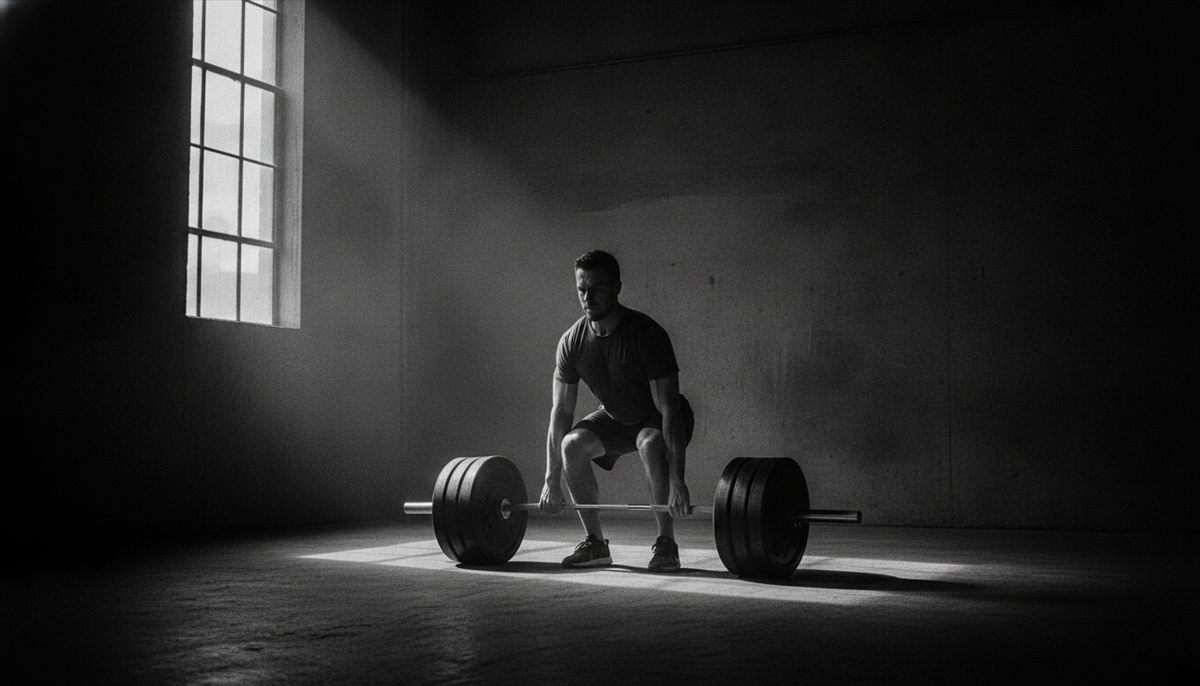
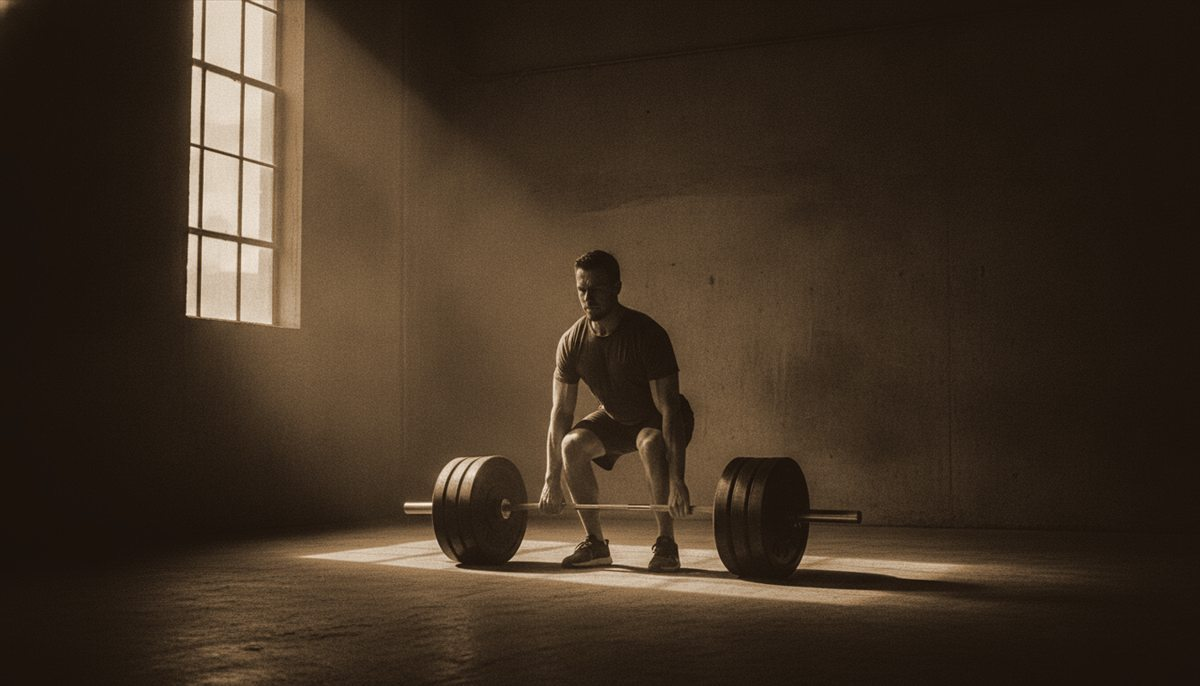
Tint the blog photos in the brand colours (ink brown to cream) instead of black and white
Keeps the untouched B&W masters in tools/photo-masters; tools/tint-photos.ps1 re-creates the tinted copies.

diff --git a/assets/css/style.css b/assets/css/style.css
@@ -84,7 +84,7 @@ html:not(.js) .split-w > span { transform: none; }
 /* ---------- hero ---------- */
 .hero { position: relative; display: flex; align-items: flex-end; min-height: min(78svh, 760px); padding: 120px var(--gutter) clamp(56px, 9vh, 96px); overflow: hidden; isolation: isolate; }
 .hero__bg { position: absolute; inset: 0; z-index: -2; }
-.hero__bg img { width: 100%; height: 100%; object-fit: cover; object-position: 55% 50%; filter: grayscale(1) brightness(.6); opacity: 0; transition: opacity 1.2s ease; }
+.hero__bg img { width: 100%; height: 100%; object-fit: cover; object-position: 55% 50%; filter: brightness(.6); opacity: 0; transition: opacity 1.2s ease; }
 .is-loaded .hero__bg img { opacity: 1; }
 .hero__shade { position: absolute; inset: 0; z-index: -1; background: linear-gradient(90deg, rgba(0,0,0,.85) 0%, rgba(0,0,0,.45) 55%, rgba(0,0,0,.2) 100%), linear-gradient(0deg, #000 0%, rgba(0,0,0,0) 45%); }
 .hero__content { width: 100%; max-width: var(--max); margin: 0 auto; }
@@ -115,7 +115,7 @@ html:not(.js) .line > span { transform: none; }
 .latest { padding-top: clamp(72px, 12vh, 120px); padding-bottom: clamp(56px, 9vh, 96px); }
 .feat { display: grid; grid-template-columns: minmax(0, 1.25fr) minmax(0, 1fr); gap: clamp(28px, 5vw, 80px); align-items: center; }
 .feat__media { position: relative; aspect-ratio: 4 / 3; overflow: hidden; background: var(--tile); }
-.feat__media img { width: 100%; height: 100%; object-fit: cover; filter: grayscale(1); transition: transform 1.2s var(--ease); }
+.feat__media img { width: 100%; height: 100%; object-fit: cover; transition: transform 1.2s var(--ease); }
 .feat:hover .feat__media img { transform: scale(1.03); }
 .feat__tag { position: absolute; left: 16px; top: 16px; font: 500 10.5px/1 var(--body); letter-spacing: .16em; text-transform: uppercase; color: #fff; text-shadow: 0 1px 8px rgba(0,0,0,.6); }
 .feat__meta { display: flex; flex-wrap: wrap; gap: 6px 18px; font: 500 11px/1.4 var(--body); letter-spacing: .14em; text-transform: uppercase; color: var(--dim); }
@@ -146,7 +146,7 @@ html:not(.js) .line > span { transform: none; }
 
 .card { position: relative; display: flex; flex-direction: column; }
 .card__cover { position: relative; aspect-ratio: 16 / 10; overflow: hidden; background: var(--tile); }
-.card__cover > img { width: 100%; height: 100%; object-fit: cover; filter: grayscale(1); transition: transform 1.2s var(--ease); }
+.card__cover > img { width: 100%; height: 100%; object-fit: cover; transition: transform 1.2s var(--ease); }
 .card:hover .card__cover > img { transform: scale(1.03); }
 .card__cover > svg { position: absolute; inset: 0; width: 100%; height: 100%; }
 .card__badge { position: absolute; left: 12px; top: 12px; z-index: 2; display: inline-flex; align-items: center; gap: 6px; font: 500 10px/1 var(--body); letter-spacing: .14em; text-transform: uppercase; color: #fff; text-shadow: 0 1px 8px rgba(0,0,0,.7); }
@@ -335,7 +335,7 @@ html:not(.js) .line > span { transform: none; }
 .a-title { max-width: 20ch; margin: 18px 0 20px; font-size: clamp(24.8px, 3.5vw, 47.1px); line-height: 1.15; text-wrap: balance; }
 .a-dek { max-width: 620px; font-size: 16px; line-height: 1.7; color: var(--mute); }
 .a-cover { position: relative; margin-top: 44px; aspect-ratio: 21 / 9; overflow: hidden; background: var(--tile); }
-.a-cover > img { width: 100%; height: 100%; object-fit: cover; filter: grayscale(1); }
+.a-cover > img { width: 100%; height: 100%; object-fit: cover; }
 .a-cover > svg { position: absolute; inset: 0; width: 100%; height: 100%; }
 
 .a-layout { display: grid; grid-template-columns: 150px minmax(0, 700px) 220px; justify-content: space-between; gap: 48px; padding-top: 64px; padding-bottom: 48px; }
@@ -653,8 +653,8 @@ body { letter-spacing: .01em; }
 
 /* hero: full-bleed photo, white type centred at the bottom, as on the store */
 .hero { --fg: #fff; --text: rgba(255, 255, 255, .9); --mute: rgba(255, 255, 255, .8); --dim: rgba(255, 255, 255, .7); --hair: rgba(255, 255, 255, .3); --hair2: rgba(255, 255, 255, .55); color: #fff; text-align: center; }
-.hero__bg img { filter: grayscale(1) brightness(.78); }
-.hero__shade { background: linear-gradient(0deg, rgba(0, 0, 0, .55) 0%, rgba(0, 0, 0, .12) 55%, rgba(0, 0, 0, 0) 100%); }
+.hero__bg img { filter: brightness(.82); }
+.hero__shade { background: linear-gradient(0deg, rgba(25, 17, 11, .55) 0%, rgba(25, 17, 11, .12) 55%, rgba(25, 17, 11, 0) 100%); }
 .hero__content { display: flex; flex-direction: column; align-items: center; }
 .hero__title { font-weight: 300; }
 .hero__sub { margin-left: auto; margin-right: auto; }
